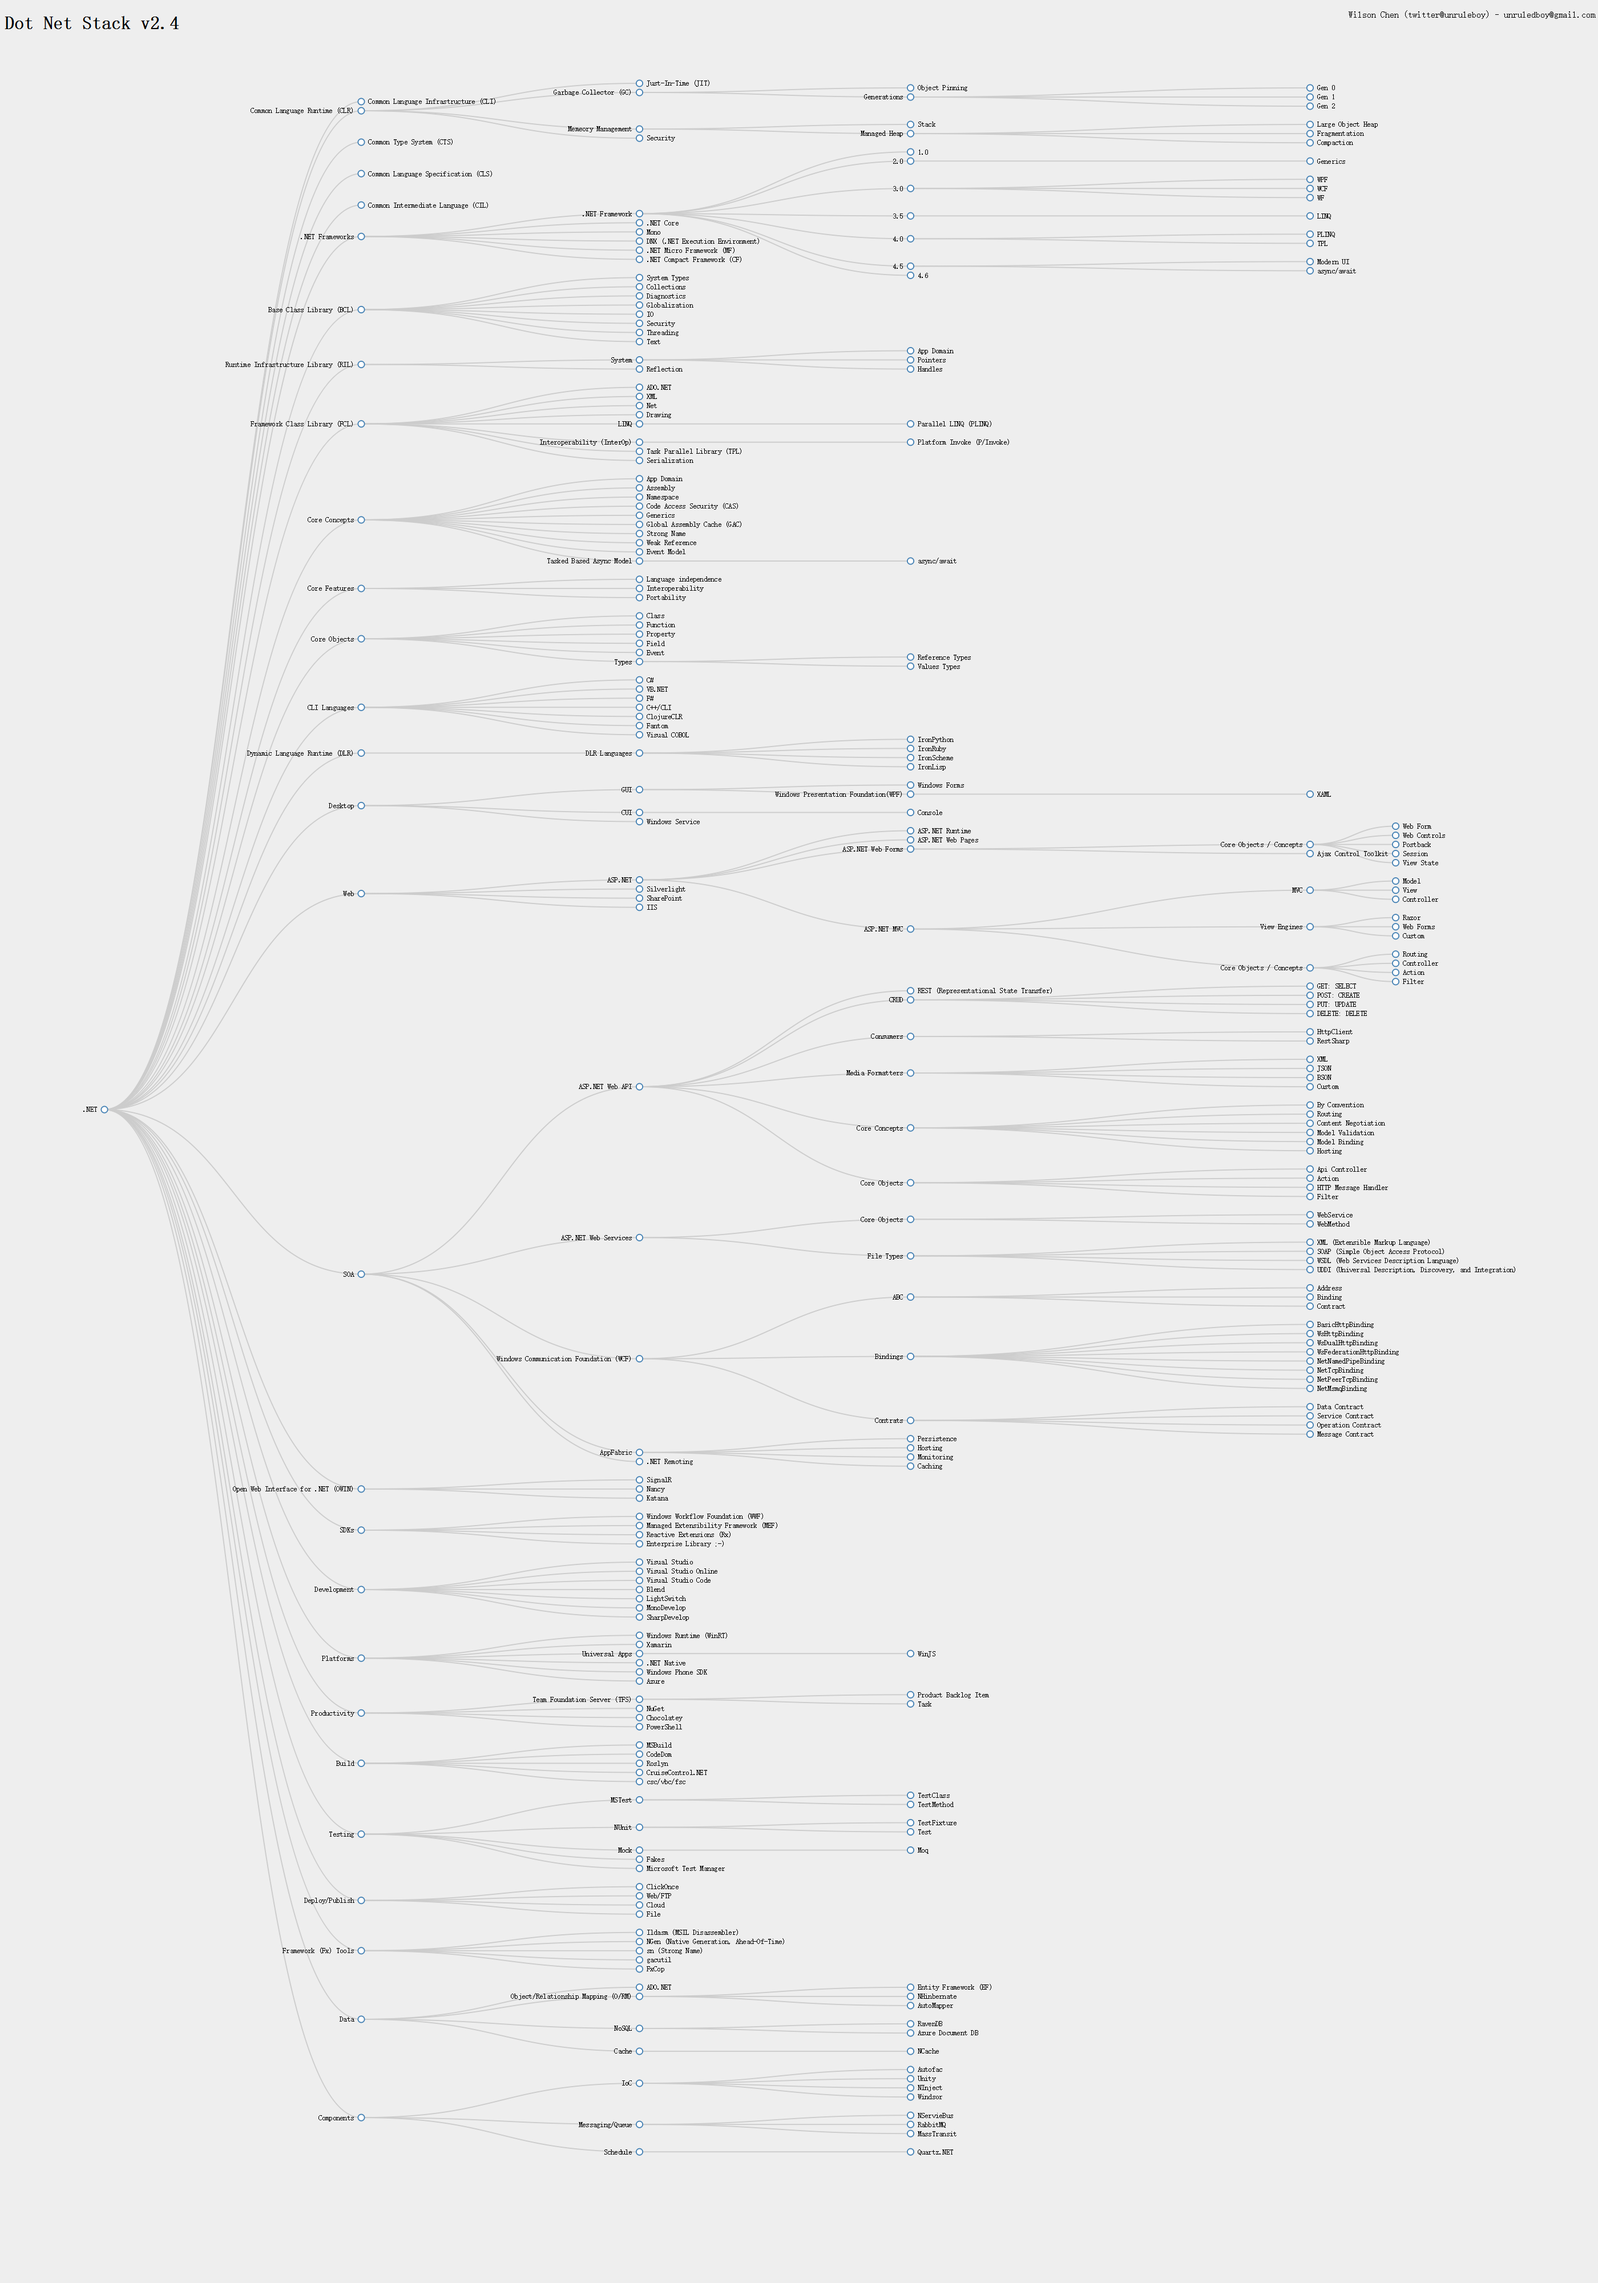
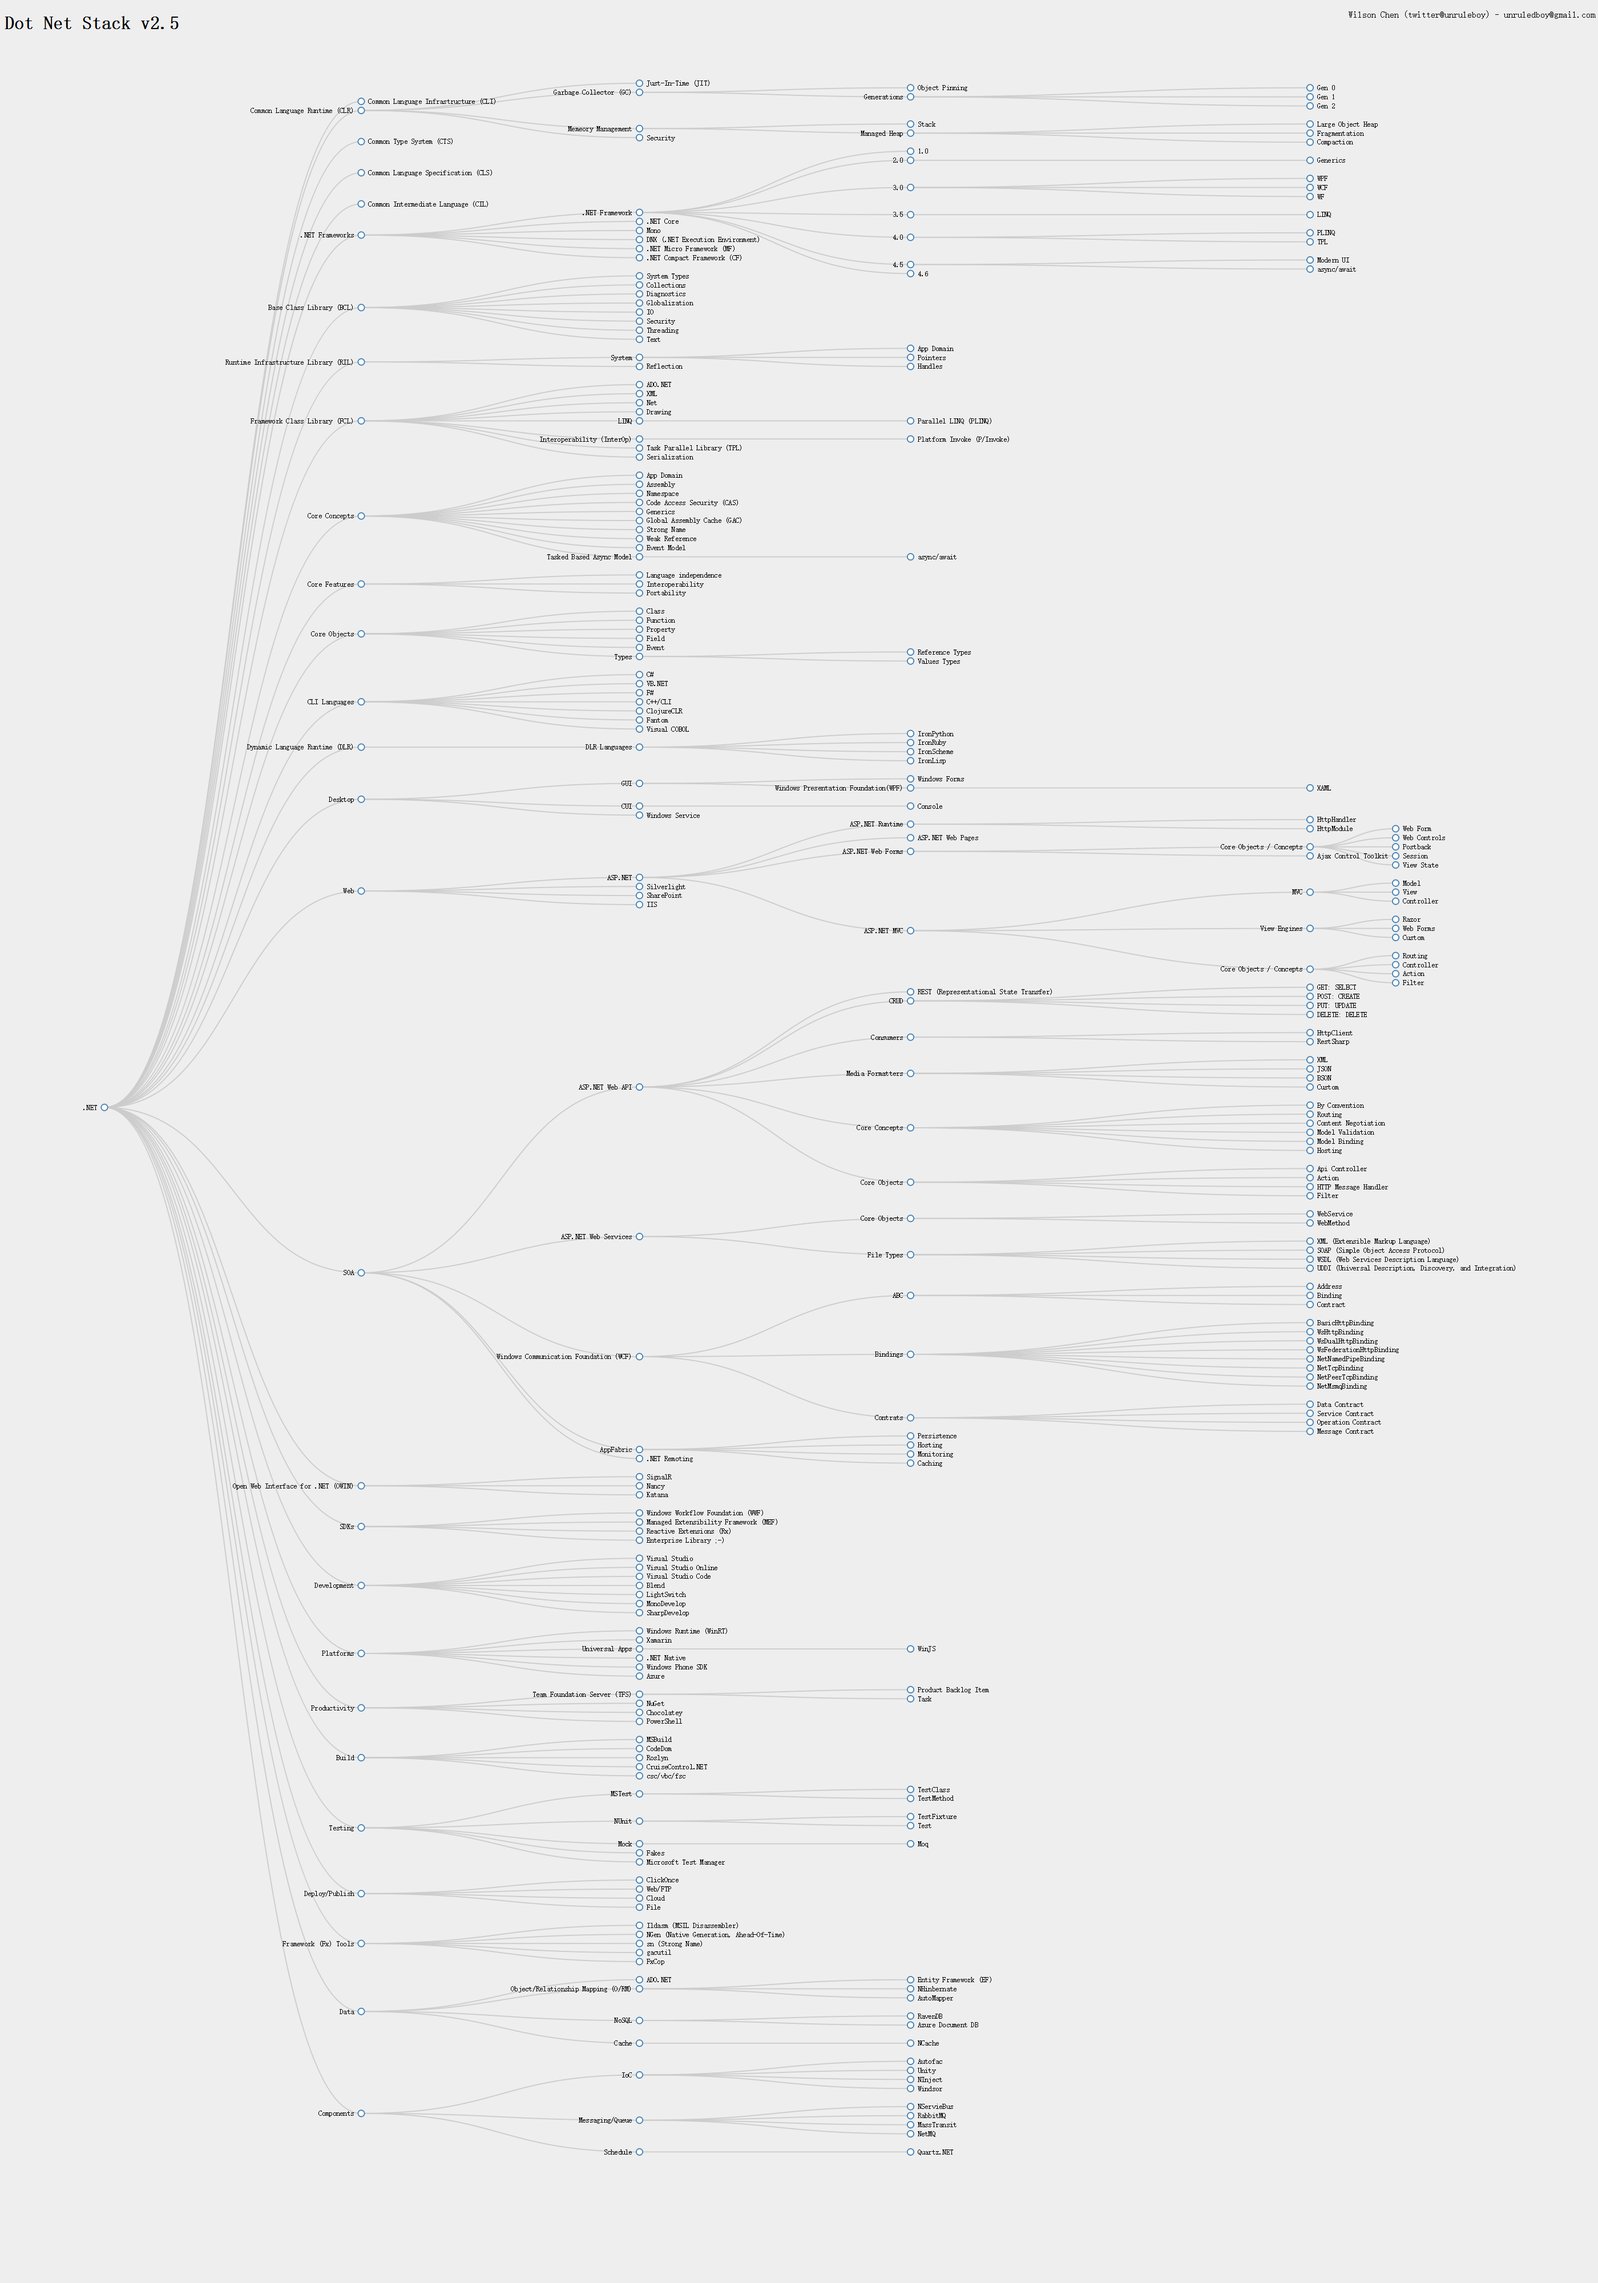
v2.5
added HttpHandler/HttpModule/NetMQ

diff --git a/ux/DotNetStack.htm b/ux/DotNetStack.htm
@@ -91,7 +91,7 @@
 <div class="container">
     <header>
         <div class="left">
-            <h1><a href="https://github.com/unruledboy/DotNetStack" target="_blank">Dot Net Stack v2.4</a></h1>
+            <h1><a href="https://github.com/unruledboy/DotNetStack" target="_blank">Dot Net Stack v2.5</a></h1>
         </div>
         <div class="right">
             <p><a href="http://github.com/unruledboy">Wilson Chen (twitter@unruleboy) - unruledboy@gmail.com</a></p>

diff --git a/README.md b/README.md
@@ -151,6 +151,8 @@ https://rawgit.com/unruledboy/DotNetStack/master/ux/DotNetStack.htm
 	- Web
 		- ASP.NET
 			- ASP.NET Runtime
+				- HttpHandler
+				- HttpModule
 			- ASP.NET Web Pages
 			- ASP.NET Web Forms
 				- Core Objects / Concepts
@@ -320,6 +322,7 @@ https://rawgit.com/unruledboy/DotNetStack/master/ux/DotNetStack.htm
 			- [NServieBus](http://particular.net/nservicebus)
 			- [RabbitMQ](https://www.rabbitmq.com/)
 			- [MassTransit](http://masstransit-project.com/)
+			- [NetMQ](https://github.com/zeromq/netmq)
 		- Schedule
 			- [Quartz.NET](http://www.quartz-scheduler.net/)
 
